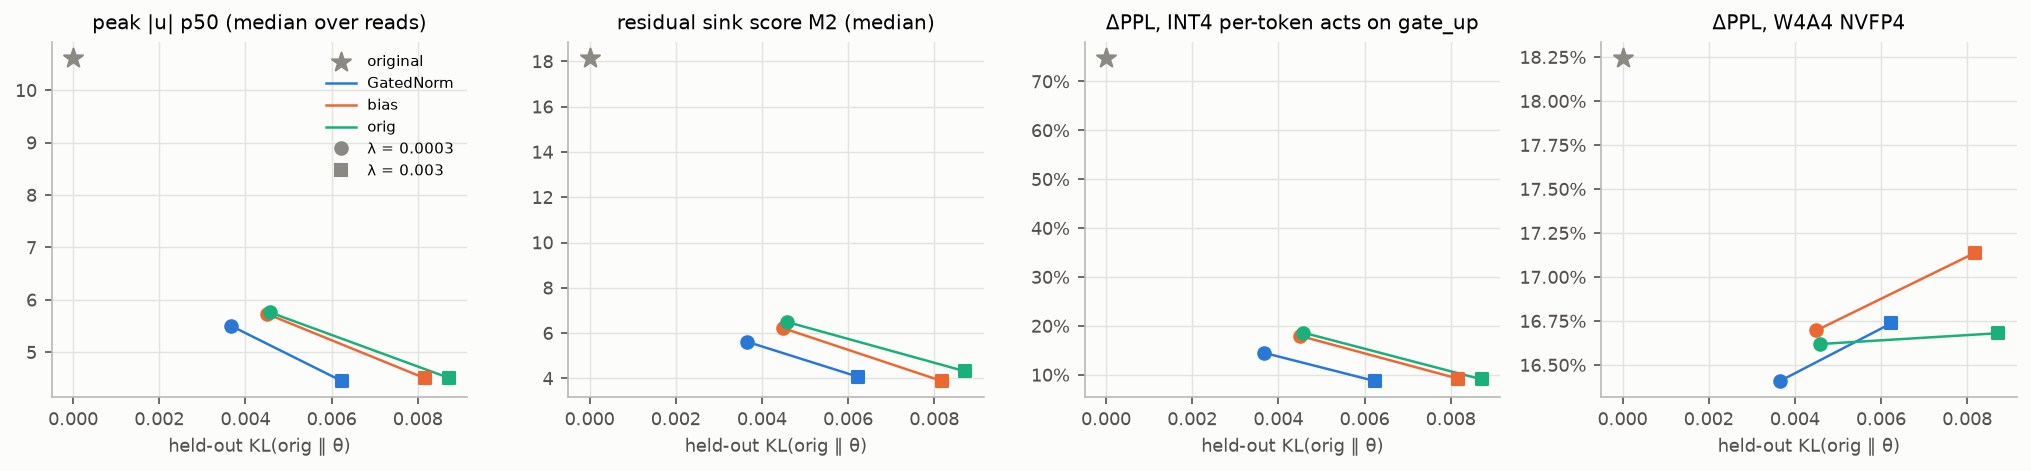
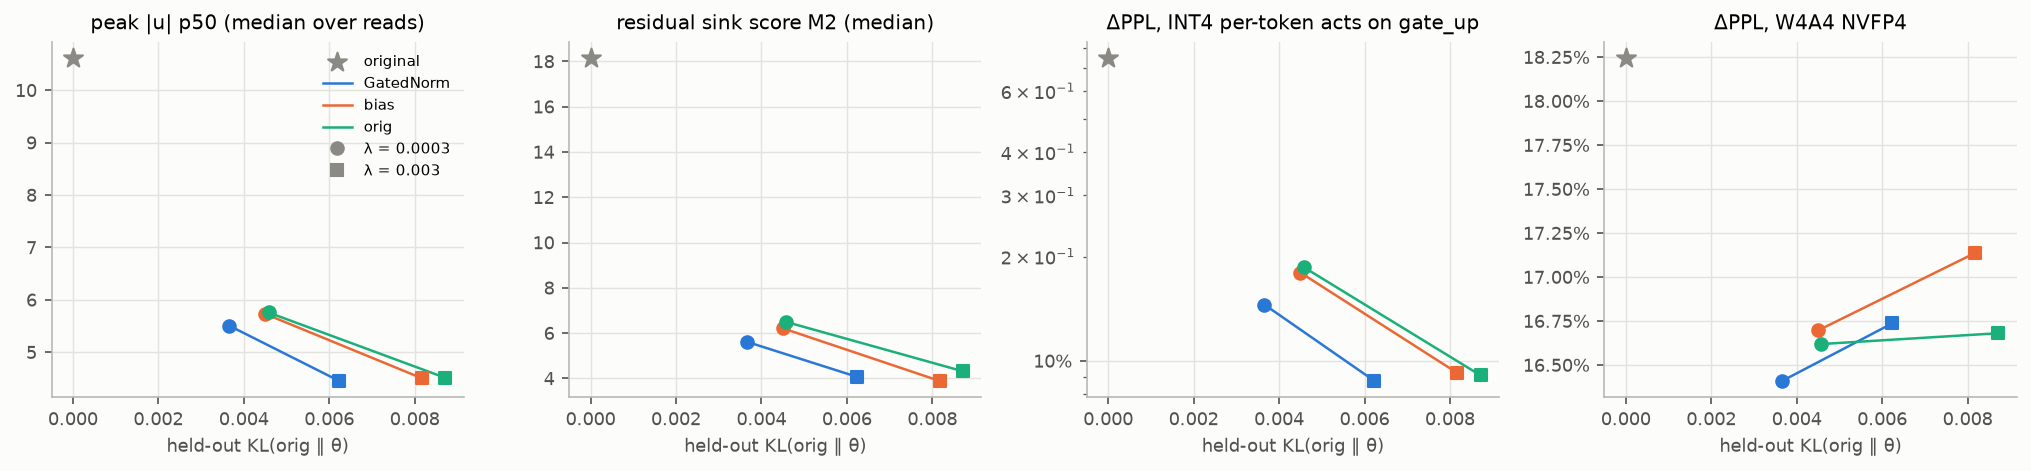
Phase 2 final report: GA+GatedNorm retrofit on Qwen3 halves the KL cost of removing the MA/sink
- C2 (Qwen3-0.6B): B3h (GA+GatedNorm) vs B1 at the same regularizer: held-out KL -45% (λ=3e-3),
  MA 7200→248, zero-shot +0.5 pt over the original, W4A16/W4A4/INT4 far better than B1
- without GA the model rebuilds the no-op behaviour in q/k and its attention weights become
  2-5x more sensitive to W4A16; GatedNorm is needed on top of GA
- outliers migrate into late-layer MLP intermediates (down_proj input), so W4A4 does not beat
  the original yet; next steps proposed
- per-kind quantization sensitivity script, consistent arm colors / log axes in comparison plots

Claude-Session: https://claude.ai/code/session_012QRzSWVjjv6Dshaq1CKZAC

diff --git a/scripts/phase2_compare.py b/scripts/phase2_compare.py
@@ -66,7 +66,7 @@ def fig_curves(runs: pd.DataFrame, out: Path, color_by: str) -> None:
     styles = sorted(runs["lam" if color_by == "arm" else "arm"].unique(), key=str)
     fig, axes = plt.subplots(1, len(CURVES), figsize=(3.3 * len(CURVES), 3.1))
     for r in runs.itertuples():
-        c = C[keys.index(getattr(r, color_by)) % len(C)]
+        c = arm_color(r.arm, keys.index(r.arm)) if color_by == "arm" else C[keys.index(r.lam) % len(C)]
         ls = LINESTYLES[styles.index(r.lam if color_by == "arm" else r.arm) % len(LINESTYLES)]
         for ax, (k, label, logy) in zip(axes, CURVES):
             s = r.metrics[["step", k]].dropna()
@@ -107,7 +107,12 @@ EVAL_Y = [("eval p50", "outlier/peak_p50_median", "peak |u| p50 (median over rea
           ("eval M2", "outlier/sink_score_median", "residual sink score M2 (median)"),
           ("A4-INT@gate_up", "rtn/A4-INT@gate_up", "ΔPPL, INT4 per-token acts on gate_up"),
           ("W4A4", "rtn/W4A4", "ΔPPL, W4A4 NVFP4")]
-ARM_COLOR = {"orig": C[2], "GatedNorm": C[0], "bias": C[1]}
+ARM_COLOR = {"orig": C[2], "GatedNorm": C[0], "GA-head+GatedNorm": C[0], "bias": C[1], "GA-head": C[1],
+             "GA-elem+GatedNorm": C[3]}
+
+
+def arm_color(arm: str, fallback_index: int) -> str:
+    return ARM_COLOR.get(arm, C[(fallback_index + 4) % len(C)])
 LAM_MARKER = ["o", "s", "^", "D"]
 
 
@@ -123,7 +128,7 @@ def fig_pareto(table: pd.DataFrame, base_eval: dict[str, float] | None, out: Pat
             ax.scatter([0], [base_eval[base_key]], color=GRAY, marker="*", s=90, zorder=3, label="original")
         for i, arm in enumerate(sorted(t.arm.unique())):
             sub = t[t.arm == arm].sort_values("λ")
-            color = ARM_COLOR.get(arm, C[(i + 3) % len(C)])
+            color = arm_color(arm, i)
             ax.plot(sub["eval KL"], sub[col], color=color, linewidth=1.2, label=arm)
             for _, row in sub.iterrows():
                 ax.scatter(row["eval KL"], row[col], color=color, s=36, zorder=3,
@@ -132,6 +137,8 @@ def fig_pareto(table: pd.DataFrame, base_eval: dict[str, float] | None, out: Pat
         ax.set_xlabel("held-out KL(orig ‖ θ)")
         ax.set_title(label)
         if col.startswith(("A4", "W4")):
+            if col.startswith("A4"):
+                ax.set_yscale("log")
             ax.yaxis.set_major_formatter(matplotlib.ticker.PercentFormatter(1.0))
     handles, labels = axes[0].get_legend_handles_labels()
     for j, lam in enumerate(lams):

diff --git a/scripts/phase2_quant_sensitivity.py b/scripts/phase2_quant_sensitivity.py
@@ -1,0 +1,54 @@
+"""Phase 2 follow-up: per-kind quantization sensitivity (one Linear kind quantized at a time) for checkpoints.
+
+Distinguishes "weights became harder to quantize" from "the model became more sensitive to the same quantization
+error" (the weight statistics themselves are compared in eval/weights.parquet).
+"""
+
+from __future__ import annotations
+
+import argparse
+from pathlib import Path
+
+import pandas as pd
+import torch
+
+from outliers.data import chunk_tokens, token_byte_lengths, wikitext2_test_text
+from outliers.evaluate import evaluate_lm
+from outliers.models import load_model
+from outliers.quant import SCHEMES, fake_quantize
+from outliers.retrofit import load_retrofit
+
+KINDS = ["qkv", "o_proj", "gate_up", "down_proj"]
+
+
+def main() -> None:
+    ap = argparse.ArgumentParser()
+    ap.add_argument("--base", required=True, help="original model key, evaluated first")
+    ap.add_argument("--ckpts", type=Path, nargs="+", required=True)
+    ap.add_argument("--schemes", nargs="+", default=["W4A16", "A4-INT"])
+    ap.add_argument("--windows", type=int, default=24)
+    ap.add_argument("--out", type=Path, required=True)
+    args = ap.parse_args()
+
+    rows = []
+    for label, path in [("original", None)] + [(p.parent.name, p) for p in args.ckpts]:
+        model, tok = load_model(args.base) if path is None else load_retrofit(path)[:2]
+        windows = chunk_tokens(wikitext2_test_text(), tok, 2048)[: args.windows]
+        bl = token_byte_lengths(tok)
+        base = evaluate_lm(model, windows, bl, batch_size=2)["ppl"]
+        for scheme in args.schemes:
+            for kind in KINDS:
+                with fake_quantize(model, SCHEMES[scheme], kinds=[kind]):
+                    ppl = evaluate_lm(model, windows, bl, batch_size=2)["ppl"]
+                rows.append({"model": label, "scheme": scheme, "kind": kind, "dppl_rel": ppl / base - 1})
+        print(label, "done", flush=True)
+        del model
+        torch.cuda.empty_cache()
+    df = pd.DataFrame(rows)
+    args.out.parent.mkdir(parents=True, exist_ok=True)
+    df.to_parquet(args.out)
+    print(df.pivot_table(index=["scheme", "kind"], columns="model", values="dppl_rel", sort=False).round(4).to_string())
+
+
+if __name__ == "__main__":
+    main()

diff --git a/docs/reports/phase2-final.md b/docs/reports/phase2-final.md
@@ -1,0 +1,199 @@
+# Phase 2 最終レポート: 学習済み LLM への GatedNorm 後付け FT（案 C）
+
+- 作成: 2026-09-27 / 計画: [元計画 §5](../plans/20260923-gatednorm-retrofit-plan.md)、[案 C の追補](../plans/20260923-phase2-optionC-plan.md)（§8・§9 にパイロットの経緯）
+- 関連: [Phase 1 レポート](./phase1-outliers.md)、[C1 中間レポート](./phase2-c1.md)
+- 生データ: `results/phase2/{c1,c2,c1-pilot,c2-pilot}/<run>/`、wandb: group `phase2-c1` / `phase2-c2` / `*-pilot` / `phase2-eval`
+
+---
+
+## 0. 要約
+
+| 段階 | モデル | 後付け | 主な結果 |
+|---|---|---|---|
+| C1 | Qwen3.5-0.8B-Base（Hybrid GDN＋GA） | GatedNorm / ゼロ初期化バイアス | GatedNorm は元の構造より KL が 2〜4 割低く、パレート優位（中程度）。バイアスは利点なし。どのアームも PPL +0.3〜1.1% で残差シンクがほぼ消える |
+| **C2** | **Qwen3-0.6B-Base（全層 Softmax）** | **GA＋GatedNorm** | **同じ正則化で、元の構造より KL が半分（−45%）、zero-shot は元モデルより +0.5 ポイント、先頭トークンの MA 7200 → 248。W4A16 / W4A4 / per-token INT4 は元の構造より大幅に良い** |
+
+1. **C2 で計画の主仮説 H2 が成り立った。** 先頭トークンの MA と残差シンクに強い正則化をかけると、GA＋GatedNorm を後付けしたモデル（B3h）は、元の構造（B1）より少ない劣化で外れ値を落とせる。λ = 3e-3 で held-out KL 0.029 vs 0.053（−45%）、WikiText-2 PPL +4.4% vs +7.6%、zero-shot 平均 0.558 vs 0.551（元モデル 0.554）。先頭トークンの MA は 7200 → 248（B1 は 1696）。計画 §5.6 の目安「外れ値水準が同じときに KL が半分以下」をほぼ満たす。
+2. **元の構造で MA を消すと、Attention の重みが量子化に弱くなる。** B1 は W4A16 +91〜125%、W4A4 +67〜71%（元モデル +46% / +26%）。重みの統計は変わっておらず、種類別に量子化すると qkv と o_proj の感度が 2〜5 倍に上がっている。GA がないため、「何もしない」ふるまいを q・k の精密なバランスで作り直していると考えられる。**GA＋GatedNorm では同じ役目をゲートが担い、Attention の重みはむしろ元モデルより量子化に強い**（W4A16 の qkv: 元 +10.2% → +7.0〜8.6%）。
+3. **GA だけでは足りず、GatedNorm も必要。** GA のみ（B2h）は attention sink を最もよく消す（sink ratio 0.19）が、KL・zero-shot・量子化はいずれも GA＋GatedNorm より悪い（W4A16 +61% vs +39%）。
+4. **後付けでも「sink を手放す」相転移が起きる。** 学習中の正則化項 R が、ある時点で急に 1 桁下がる。GA＋GatedNorm では最も早く（λ = 1e-2 で step 約 130）、元の構造の λ = 3e-3 では 200M token でも完了しない。50M token のパイロットでは、λ = 1e-3 だと GA を付けても sink は残った。
+5. **残る課題**:
+   - **外れ値が MLP の中間活性に移る。** 終盤層の down_proj 入力で、チャネル RMS 比が 23〜34 → 最大 187、尖度が最大 1750 になり、最終層では先頭トークンの中間活性が 1440 → 5216。そのため、W4A4 NVFP4（+29〜30%）は元モデル（+26%）より少し悪い。
+   - C1 では、全体の INT4 崩壊の主因（GDN out_proj の入力）に残差 Norm の正則化が届かない。
+   - どちらも「Norm の外」の活性で、正則化や GatedNorm の範囲を広げる必要がある。
+6. **推論オーバーヘッド**（融合なしの実装）: GA＋GatedNorm で prefill +7.6%、decode +34%。decode の増分は小さなカーネルの起動が主で、融合すれば大きく減る見込み。
+
+**推奨**: PTQ フェーズ（元計画 G2 の次段）の候補は **C2 の B3h（λ = 3e-3）**。ただし W4A4 を本当に改善するには、MLP 中間活性（down_proj 入力）への外れ値の移動を先に抑える必要がある（§6）。
+
+---
+
+## 1. 実験の全体像
+
+- **損失**: KL(p_orig ‖ p_θ) ＋ λ·R。R は、各残差 Norm の**入力と出力の両方**（`--reg-site both`）で `Σ_j ReLU(|u_j| − τ)²`（u = x/rms(x)）をとり、トークンと Norm で平均する。τ = 4。C2 では先頭トークン（位置 0）の重みを 256 にした。
+- **恒等初期化**: GatedNorm `y ⊙ 2σ(W_up·silu(W_down·y))`（W_up = 0）、GA `attn_out ⊙ 2σ(W_g·x̂ + b)`（W_g = b = 0、head-wise）、バイアスは matmul の後に足すゼロ初期化の別パラメータ。いずれも初期出力が元モデルとビット一致することをテストで確認した。
+- **学習**: FineWeb-Edu 200M token（762 step × 128 × 2048）、元の重みは LR 2e-5、新規パラメータは LR 1e-3（C1 のバイアスのみ 1e-2）、cosine、fp32 マスター＋bf16、勾配チェックポイント。約 10K tok/s、1 本 5.3〜5.8 時間。
+- **評価**: WikiText-2 PPL、held-out KL（FineWeb-Edu 別シャード 64×2048）、Phase 1 の外れ値指標（C4 128×2048）、M7（attention sink）、RTN fake-quant ΔPPL、lm-eval zero-shot 6 タスク、ゲートを外したときの KL。
+- **元計画からの変更**（いずれもパイロットの結果による。詳細は追補 §8・§9）:
+  - τ を 8 → 4 にした。τ = 8 では、シンクが別の次元に移って閾値のすぐ下に残った。
+  - 正則化を Norm の入力だけから、入力と出力の両方にした。入力だけだと、GatedNorm がゲートでシンクを作り直し、量子化される値が悪化した。
+  - C2 では、先頭トークンの重みを 256 にした。トークン平均では、先頭トークンの MA は 1/2048 に薄まって効かない。
+  - Track B（CE のみ）、A3（ゲートのみ学習）、A4（PreAffine）、シード反復は実施していない。
+
+---
+
+## 2. C1: Qwen3.5-0.8B-Base（詳細は [C1 中間レポート](./phase2-c1.md)）
+
+![c1 pareto](figs/phase2-c1/pareto.png)
+
+| アーム | λ | held-out KL | PPL | M2 | A4-INT @gate_up | W4A4 | lm-eval |
+|---|---|---|---|---|---|---|---|
+| 元モデル | – | 0 | 13.12 | 18.2 | +74.8% | +18.3% | 0.575 |
+| A1（元の構造） | 3e-4 / 3e-3 | 0.0046 / 0.0087 | 13.18 / 13.26 | 6.5 / 4.3 | +18.6% / +9.1% | +16.6% / +16.7% | 0.575 / 0.574 |
+| A2（GatedNorm） | 3e-4 / 3e-3 | **0.0037 / 0.0062** | 13.16 / 13.23 | 5.6 / 4.1 | +14.5% / +8.8% | +16.4% / +16.7% | 0.575 / 0.573 |
+| A5（バイアス） | 3e-4 / 3e-3 | 0.0045 / 0.0082 | 13.17 / 13.25 | 6.2 / 3.9 | +18.0% / +9.2% | +16.7% / +17.1% | 0.576 / 0.573 |
+
+Qwen3.5 は MA も attention sink も持たず、残差シンクは元の構造でも安く消せる（PPL +0.3〜1.1%）。そのため GatedNorm の利点は 2〜4 割の KL 削減にとどまった。
+
+---
+
+## 3. C2: Qwen3-0.6B-Base
+
+### 3.1 パイロット（50M token）
+
+| 設定 | PPL | 先頭トークンの MA | sink ratio | 結果 |
+|---|---|---|---|---|
+| 元モデル | 12.67 | 7200 | 0.75 | |
+| B1、λ = 1e-3（先頭トークンの重み 1 / 256） | 13.18 / 13.15 | 7136 / 7424 | 0.72 | 非先頭トークンの残差シンクは減るが、MA と sink は残る |
+| B3h（GA＋GatedNorm）、λ = 1e-3 | 13.09 | 10048 | 0.72 | GA を付けても、弱い圧力では sink は残る（ゲートは閉じない） |
+| B1、λ = 1e-2 | 14.87 | 6688 | 0.68 | 元の構造は MA を手放せない |
+| B3h、λ = 1e-2 | 16.05 | 588 | 0.002 | GA が sink を引き継ぎ、MA が消える。ただし切り替えが終盤に起き、KL が回復していない |
+
+恒等初期化では、MA を崩す圧力が KL の抵抗を上回るまで、GA のゲートに sink を肩代わりさせる勾配が生じない。そのため、ある λ を超えると切り替わる「閾値」がある。
+
+### 3.2 本番（200M token）
+
+![c2 curves](figs/phase2-c2/curves.png)
+![c2 pareto](figs/phase2-c2/pareto.png)
+
+| アーム | λ | held-out KL | PPL | lm-eval | MA | M2 | sink ratio | 先頭への注意 | W8A8 | W4A16 | W4A4 | A4-INT 全体 | GA / GN を外した KL |
+|---|---|---|---|---|---|---|---|---|---|---|---|---|---|
+| 元モデル | – | 0 | 12.67 | 0.554 | 7200 | 38.3 | 0.75 | 0.46 | +2.7% | +46.4% | +26.4% | +95015% | – |
+| B1（元の構造） | 3e-3 | 0.053 | 13.63 | 0.551 | 1696 | 4.95 | 0.58 | 0.39 | +2.3% | +125% | +71.0% | +30377% | – |
+| **B3h（GA＋GN）** | 3e-3 | **0.029** | **13.22** | **0.558** | **248** | 5.70 | 0.54 | 0.36 | **+1.5%** | **+43.2%** | **+30.1%** | **+4020%** | 0.37 / 0.53 |
+| B1（元の構造） | 1e-2 | 0.055 | 13.75 | 0.545 | 164 | 4.38 | 0.48 | 0.33 | +2.1% | +91.1% | +67.1% | +12765% | – |
+| B2h（GA のみ） | 1e-2 | 0.059 | 13.78 | 0.543 | 280 | 4.51 | 0.19 | 0.14 | +1.8% | +61.2% | +47.2% | +7275% | 3.71 / – |
+| **B3h（GA＋GN）** | 1e-2 | **0.043** | **13.51** | **0.552** | 223 | 5.42 | 0.36 | 0.23 | **+1.7%** | **+39.0%** | **+29.3%** | **+2594%** | 0.54 / 0.88 |
+
+- **H2（パレート優位）**: B3h は両方の λ で B1 を上回る。λ = 3e-3 では、MA がより小さい状態で KL は約半分。M2 は B3h のほうがやや高い（5.7 vs 5.0）が、量子化に効く先頭トークンの MA や Linear 入力はどれも B3h が良い。
+- **相転移**: 学習曲線の R は、ある時点で急に 1 桁下がる（sink を手放す切り替え）。GA＋GatedNorm は最も早く（λ = 1e-2 で step 約 130、λ = 3e-3 で step 約 370）、元の構造と GA のみは λ = 1e-2 で step 約 220。元の構造の λ = 3e-3 では 200M token でも完了しない（R 13、MA 1696）。切り替えの後、KL は回復していく（B3h λ = 1e-2 で 0.13 → 0.043）。
+- **ゲートの働き**:
+  - GatedNorm を外すと KL は 0.53〜0.88、GA を外すと 0.37〜0.54 に上がり、どちらも強く使われている。
+  - GatedNorm のゲートと |y| の相関は −0.42〜−0.50 で、論文の「|y| が大きい次元ほどゲートが小さい（外れ値を抑える）」パターンが現れた。C1 では正の相関で、Qwen3.5 では出なかったパターン。
+  - シンク次元（dim 35）の λ_eff は 1.8e-5 → 0.006 程度で、1 には戻っていない。この LR と step 数では、Norm の重みはほとんど動かない。
+
+### 3.3 量子化の感度: なぜ元の構造の W4A16 が悪化するか
+
+重みの外れ値統計（尖度、absmax/std、量子化の相対誤差）は、B1 でも B3h でも元モデルとほぼ同じ。種類ごとに 1 つずつ量子化すると、差の出る場所が分かる（WikiText-2 の 24 窓、`scripts/phase2_quant_sensitivity.py`）。
+
+| 方式 | 種類 | 元モデル | B1 3e-3 | B1 1e-2 | B2h 1e-2 | B3h 3e-3 | B3h 1e-2 |
+|---|---|---|---|---|---|---|---|
+| W4A16 | qkv | +10.2% | **+28.1%** | **+26.6%** | +19.7% | +8.6% | +7.0% |
+| W4A16 | o_proj | +2.3% | **+11.1%** | **+8.2%** | +5.7% | +3.4% | +3.8% |
+| W4A16 | gate_up | +10.2% | +12.3% | +10.9% | +9.7% | +8.4% | +9.4% |
+| W4A16 | down_proj | +11.6% | +20.7% | +10.9% | +9.1% | +10.8% | +9.5% |
+| A4-INT | qkv | +981% | +245% | +66% | +42% | +20% | +11% |
+| A4-INT | gate_up | +25581% | +70% | +36% | +31% | +43% | +28% |
+| A4-INT | down_proj | +291% | +553% | +686% | +525% | +541% | +476% |
+
+- **元の構造（B1）は、Attention の重み（qkv、o_proj）が量子化に 2〜5 倍敏感になる。** 重みそのものは変わっていないので、同じ量子化誤差に対してモデルの出力が敏感になっている。GA がないまま sink を手放すと、「何もしない」ふるまいを q・k の精密なバランスで作り直すためと考えられる。GA のみ（B2h）は中間、GA＋GatedNorm（B3h）は元モデルより頑健。
+- **per-token INT4 の崩壊の主因は、元モデルでは gate_up（step-up ブロック）だった。** それがどのアームでも消え、代わりに down_proj（MLP の中間活性）が最大の劣化要因になった。
+
+### 3.4 外れ値の移動（down_proj 入力）
+
+B3h（λ = 1e-2）の down_proj 入力（C4 128 本）:
+
+| 層 | absmax（元 → B3h） | 先頭トークンの absmax | チャネル RMS 比 | 尖度 |
+|---|---|---|---|---|
+| L2（元 step-up） | 3888 → 213 | 3888 → 213 | 84 → 4.8 | 118 → 108 |
+| L23〜L25 | 296〜352 → 316〜338 | 約 1 → 54〜108 | 25〜34 → **36〜141** | 175〜297 → **224〜1746** |
+| L26 | 1024 → 624 | 1024 → 86 | 23 → **187** | 114 → **1747** |
+| L27（元 step-down） | 1440 → **5216** | 1440 → **5216** | 223 → 188 | 472 → 518 |
+
+- step-up の仕組み（L2）は消えた。一方、終盤層の MLP 中間活性に新しい外れ値チャネルが生まれ、最終層の MLP は、打ち消す相手の MA がなくなったのに先頭トークンに大きな中間活性を作り続けている。
+- これらは Norm の外（SwiGLU の出力）で、今回の正則化の対象外。W4A4 NVFP4 が元モデルより少し悪い（+29〜30% vs +26%）のは主にこのため。
+
+### 3.5 lm-eval の内訳（acc_norm、なければ acc）
+
+| run | ARC-e | ARC-c | HellaSwag | PIQA | WinoGrande | LAMBADA | 平均 |
+|---|---|---|---|---|---|---|---|
+| 元モデル | 0.581 | 0.382 | 0.537 | 0.699 | 0.586 | 0.537 | 0.554 |
+| B1 3e-3 | 0.645 | 0.387 | 0.518 | 0.690 | 0.567 | 0.501 | 0.551 |
+| B3h 3e-3 | 0.647 | 0.380 | 0.527 | 0.695 | 0.575 | 0.528 | 0.558 |
+| B1 1e-2 | 0.631 | 0.377 | 0.510 | 0.692 | 0.567 | 0.493 | 0.545 |
+| B2h 1e-2 | 0.629 | 0.373 | 0.514 | 0.686 | 0.560 | 0.494 | 0.543 |
+| B3h 1e-2 | 0.643 | 0.375 | 0.522 | 0.696 | 0.570 | 0.506 | 0.552 |
+
+ARC-e は全アームで +5〜7 ポイント上がる。KL 蒸留とはいえ、FineWeb-Edu（教育系）を学習データにしたことによる共通の変化とみられる。残りの 5 タスクでは、どのアームも元モデルより下がる。その下がり方は B3h が最も小さい（5 タスク平均で B3h 3e-3 は −0.7 ポイント、B1 3e-3 は −1.6 ポイント）。
+
+### 3.6 推論オーバーヘッド（PyTorch eager、バッチ 1、融合なし）
+
+| 後付け | prefill（2048 token） | decode（1 token あたり） |
+|---|---|---|
+| GA（head-wise） | +2.5% | +13.3% |
+| GatedNorm | +4.7% | +20.4% |
+| GA＋GatedNorm | +7.6% | +34.0% |
+
+---
+
+## 4. 仮説と成功基準の判定
+
+| 項目（元計画 §1・§5.6） | 判定 | 根拠 |
+|---|---|---|
+| H2: GatedNorm 付きのほうが、外れ値の削減量をそろえたときの KL / ΔPPL が小さい | **C2 で支持、C1 で弱く支持** | C2: 同じ λ で KL −21〜45%、ΔPPL +4.4% vs +7.6%。C1: KL −20〜37% |
+| 成功基準（主）: 外れ値水準が同じで KL が半分以下 | **C2 でほぼ達成**（−45%）、C1 は未達 | 表 3.2、C1 中間レポート |
+| 成功基準（機構）(i) ゲートを 1 にすると KL が上がる | 達成 | C2: 0.37〜0.88、C1: 0.03〜0.04 |
+| 成功基準（機構）(ii) \|y\| が大きい次元ほどゲートが小さい | **C2 で達成、C1 では逆** | 相関 C2: −0.42〜−0.50、C1: +0.26〜+0.31 |
+| 成功基準（機構）(iii) シンク次元の λ_eff が 1 に戻る | 観測されず | 1.8e-5 → 0.006。この学習量では Norm の重みはほとんど動かない |
+| 成功基準（量子化）: qkv / in_proj / gate_up 入力の NVFP4 SQNR が改善し、W4A4 の ΔPPL が縮む | **元の構造に対しては達成、元モデルに対しては未達** | W4A4: B3h +29〜30%、B1 +67〜71%、元モデル +26%。外れ値が down_proj 入力に移った（§3.4） |
+| H3 / RQ3（CE のみの通常 FT）、RQ4（ゲートのみ学習） | 未実施 | 本段階の範囲外にした |
+
+---
+
+## 5. 解釈
+
+1. **後付けの GatedNorm の価値は、「外れ値が再スケール因子として働いているモデル」でこそ出る。** Qwen3.5（すでに GA を持ち、MA も sink もない）では、残差シンクは元の構造でも安く消せたので、差は中程度だった。Qwen3（MA、attention sink、λ ≈ 0 で抑えられた残差シンク）では、外れ値を消すと機能の置き換えが必要になり、GA＋GatedNorm がその置き換え先として働いた。これは GatedNorm 論文の「外れ値は機能部品で、ゲートはその代替経路」という主張と整合する。
+2. **置き換え先がない元の構造では、sink を消すと別の脆い仕組みが生まれる。** B1 は KL が大きいだけでなく、Attention の重みが量子化に弱くなる。量子化の観点では、外れ値の値を減らすことより、その機能をゲートに移すことのほうが重要。
+3. **外れ値は正則化のない場所へ移る。** C1 ではゲートの出力、C2 では MLP の中間活性に移った。正則化や監視は、量子化される活性すべてを対象にする必要がある。
+
+---
+
+## 6. 次のステップ（提案）
+
+1. **正則化の範囲を広げる**: down_proj の入力（SwiGLU の出力）と、Qwen3.5 の GDN 内部の RMSNormGated の出力にも同じピーク正則化をかける。これで、W4A4 と GDN out_proj の INT4 崩壊を狙う。実装は `OutlierRegularizer` にフック箇所を足すだけで済む。
+2. **B3h（λ = 3e-3）を延長学習する**（例: 1B token）。KL がまだ下がり続けていたので、どこまで回復するかを見る。シード反復で差の頑健さも確かめる。
+3. **PTQ フェーズ**: B3h を SmoothQuant / GPTQ / NVFP4 と組み合わせ、元モデルと比べる（元計画 G2 の次段）。回転系 PTQ は、要素ごとのゲートと相性が悪い点に注意する。
+4. **推論の実装**: GatedNorm と GA の融合カーネル（decode のオーバーヘッドを下げる）。
+
+---
+
+## 7. 再現
+
+```bash
+uv run python scripts/prepare_fineweb.py --model qwen3-0.6b
+uv run python scripts/eval_retrofit.py --base qwen3-0.6b --attention
+for lam in 1e-2 3e-3; do
+  uv run python scripts/train_retrofit.py --model qwen3-0.6b --run c2/B3h-lam$lam --group phase2-c2 --tau 4 --reg-site both \
+    --first-weight 256 --tokens 200e6 --lam $lam --attn-gate headwise --gated-norm
+  uv run python scripts/train_retrofit.py --model qwen3-0.6b --run c2/B1-lam$lam --group phase2-c2 --tau 4 --reg-site both \
+    --first-weight 256 --tokens 200e6 --lam $lam
+done
+uv run python scripts/train_retrofit.py --model qwen3-0.6b --run c2/B2h-lam1e-2 --group phase2-c2 --tau 4 --reg-site both \
+  --first-weight 256 --tokens 200e6 --lam 1e-2 --attn-gate headwise
+for d in results/phase2/c2/*/; do uv run python scripts/eval_retrofit.py --ckpt $d/final.pt --attention; done
+uv run python scripts/phase2_quant_sensitivity.py --base qwen3-0.6b --ckpts results/phase2/c2/*/final.pt \
+  --out results/phase2/c2/quant_sensitivity.parquet
+uv run python scripts/latency_retrofit.py --model qwen3-0.6b
+uv run python scripts/phase2_compare.py --pattern "c2/*" --out docs/reports/figs/phase2-c2 \
+  --base-eval results/phase2/base-qwen3-0.6b/eval/summary.json
+```
+C1 の手順は [C1 中間レポート](./phase2-c1.md) §6。

diff --git a/docs/reports/figs/phase2-c2/table.md b/docs/reports/figs/phase2-c2/table.md
@@ -1,0 +1,7 @@
+| run | arm | λ | steps | held-out KL | R (last step) | peak_p50_median | peak_p99_max | sink_score_median | down_proj_absmax_max | qkv_chrms_median | gate_up_chrms_median | WT2 PPL | eval KL | eval M2 | eval p50 | W4A4 | A4-INT@qkv | A4-INT@gate_up | A4-INT | lm-eval avg | KL w/o new params |
+|---|---|---|---|---|---|---|---|---|---|---|---|---|---|---|---|---|---|---|---|---|---|
+| c2/B1-lam1e-2 | orig | 0.01 | 762 | 0.05089 | 2.133 | 4.368 | 7.587 | 4.302 | 2688 | 4.676 | 4.296 | 13.75 | 0.05449 | 4.378 | 4.375 | 0.6709 | 0.739 | 0.3756 | 127.6 | 0.5448 | nan |
+| c2/B1-lam3e-3 | orig | 0.003 | 762 | 0.04656 | 13.2 | 4.719 | 9.107 | 4.915 | 988 | 5.868 | 5.176 | 13.63 | 0.05308 | 4.953 | 4.716 | 0.71 | 2.983 | 0.8006 | 303.8 | 0.5513 | nan |
+| c2/B2h-lam1e-2 | GA-head | 0.01 | 762 | 0.05547 | 2.247 | 4.408 | 7.548 | 4.442 | 1368 | 4.8 | 4.439 | 13.78 | 0.05855 | 4.508 | 4.405 | 0.4721 | 0.4601 | 0.3295 | 72.75 | 0.5426 | 3.714 |
+| c2/B3h-lam1e-2 | GA-head+GatedNorm | 0.01 | 762 | 0.04098 | 1.105 | 4.464 | 7.422 | 5.457 | 4992 | 4.628 | 4.49 | 13.51 | 0.04289 | 5.418 | 4.459 | 0.2932 | 0.1201 | 0.2924 | 25.94 | 0.5521 | 0.8789 |
+| c2/B3h-lam3e-3 | GA-head+GatedNorm | 0.003 | 762 | 0.02841 | 4.094 | 4.857 | 8.843 | 5.825 | 1160 | 5.559 | 5.333 | 13.22 | 0.02916 | 5.704 | 4.857 | 0.3009 | 0.2176 | 0.4595 | 40.2 | 0.5584 | 0.5281 |
